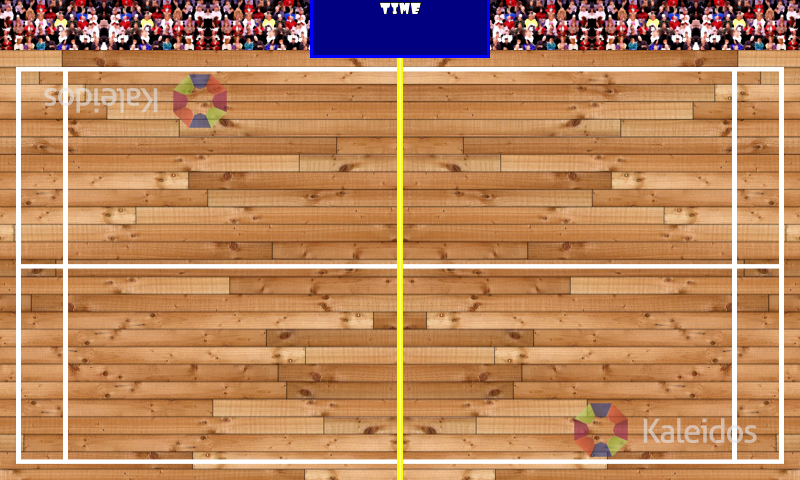
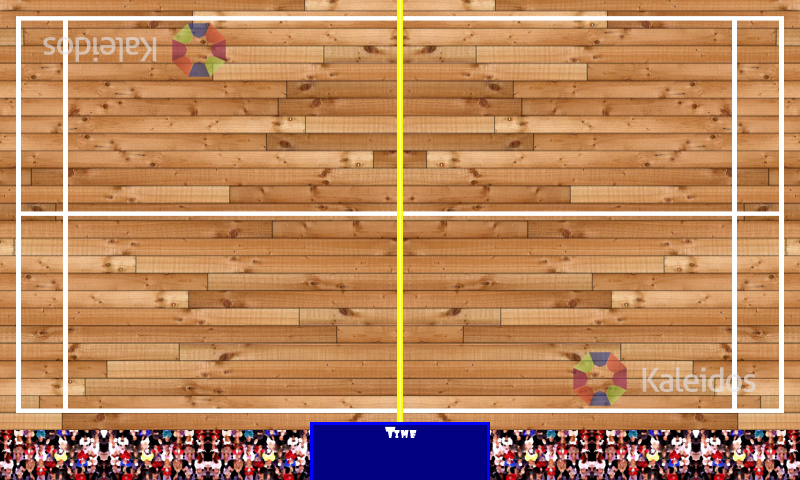
Extract game field settings to a GameField class

diff --git a/android/KaljammersProject/Kaljammers/src/main/java/net/kaleidos/kaljammers/GameOneActivity.java b/android/KaljammersProject/Kaljammers/src/main/java/net/kaleidos/kaljammers/GameOneActivity.java
@@ -67,7 +67,7 @@ public class GameOneActivity extends BaseGameActivity {
     private static final int LAYER_COUNT = 4;
 
 
-    private static final int FIELD_LIMIT_UP = 50;
+
 
 
     private static final int MOVE_NONE = 0;
@@ -115,6 +115,8 @@ public class GameOneActivity extends BaseGameActivity {
     Text score2Text;
 
     boolean atacking = true;
+
+    GameField gameField = new GameField();
 
     @Override
     public EngineOptions onCreateEngineOptions() {
@@ -174,7 +176,7 @@ public class GameOneActivity extends BaseGameActivity {
         BitmapTexture backgroundTexture = new BitmapTexture(this.getTextureManager(), new IInputStreamOpener() {
             @Override
             public InputStream open() throws IOException {
-                return getResources().openRawResource(R.drawable.stadium);
+                return getResources().openRawResource(gameField.getImageId());
             }
         });
 
@@ -259,16 +261,35 @@ public class GameOneActivity extends BaseGameActivity {
 
             if ((this.lastMove == MOVE_RIGHT)||(this.lastMove == MOVE_UP_RIGHT)||(this.lastMove == MOVE_DOWN_RIGHT)) {
                 x += this.player1.getVel() * pSecondsElapsed;
+
+
             } else if ((this.lastMove == MOVE_LEFT)||(this.lastMove == MOVE_UP_LEFT)||(this.lastMove == MOVE_DOWN_LEFT)) {
                 x -= this.player1.getVel() * pSecondsElapsed;
+
             }
 
 
             if ((this.lastMove == MOVE_UP)||(this.lastMove == MOVE_UP_RIGHT)||(this.lastMove == MOVE_UP_LEFT)) {
                 y -= this.player1.getVel() * pSecondsElapsed;
+
             } else if ((this.lastMove == MOVE_DOWN)||(this.lastMove == MOVE_DOWN_LEFT)||(this.lastMove == MOVE_DOWN_RIGHT)) {
                 y += this.player1.getVel() * pSecondsElapsed;
+
             }
+
+            //Check limits player 1
+            if (x+player1.getWidth()>gameField.getLimitMiddle()){
+                x = gameField.getLimitMiddle()-player1.getWidth();
+            } else if (x<gameField.getLimitLeft()){
+                x = gameField.getLimitLeft();
+            }
+
+            if (y<gameField.getLimitUp()){
+                y = gameField.getLimitUp();
+            } else if (y+player1.getHeight()>gameField.getLimitDown()){
+                y = gameField.getLimitDown()-player1.getHeight();
+            }
+
 
             this.player1.setPosition(x, y);
         }
@@ -304,6 +325,20 @@ public class GameOneActivity extends BaseGameActivity {
                 if (fy-p2y>this.player2.getHeight()/2){
                     y += this.player2.getVel() * pSecondsElapsed;
                 }
+            }
+
+
+            //Check limits
+            if (x<gameField.getLimitMiddle()){
+                x = gameField.getLimitMiddle();
+            } else if (x+player2.getWidth()>gameField.getLimitRight()){
+                x = gameField.getLimitRight() - player2.getWidth();
+            }
+
+            if (y<gameField.getLimitUp()){
+                y = gameField.getLimitUp();
+            } else if (y+player2.getHeight()>gameField.getLimitDown()){
+                y = gameField.getLimitDown()-player2.getHeight();
             }
 
             this.player2.setPosition(x, y);
@@ -400,7 +435,7 @@ public class GameOneActivity extends BaseGameActivity {
         final float centerX = (GameOneActivity.CAMERA_WIDTH - this.mFaceTextureRegion.getWidth()) / 2;
         final float centerY = (GameOneActivity.CAMERA_HEIGHT - this.mFaceTextureRegion.getHeight()) / 2;
 
-        frisbee = new Frisbee(centerX, centerY, this.mFaceTextureRegion, this.getVertexBufferObjectManager());
+        frisbee = new Frisbee(centerX, centerY, this.mFaceTextureRegion, this.getVertexBufferObjectManager(), gameField);
         scene.getChildByIndex(LAYER_FRISBEE).attachChild(frisbee);
         frisbee.setVisible(false);
 
@@ -417,10 +452,10 @@ public class GameOneActivity extends BaseGameActivity {
         scene.getChildByIndex(LAYER_TEXT).attachChild(debugText);
 
 
-        score1Text = new Text(325, 5, this.mFont, "00", new TextOptions(HorizontalAlign.CENTER), this.getVertexBufferObjectManager());
+        score1Text = new Text(325, 430, this.mFont, "00", new TextOptions(HorizontalAlign.CENTER), this.getVertexBufferObjectManager());
         scene.getChildByIndex(LAYER_TEXT).attachChild(score1Text);
 
-        score2Text = new Text(430, 5, this.mFont, "00", new TextOptions(HorizontalAlign.CENTER), this.getVertexBufferObjectManager());
+        score2Text = new Text(430, 430, this.mFont, "00", new TextOptions(HorizontalAlign.CENTER), this.getVertexBufferObjectManager());
         scene.getChildByIndex(LAYER_TEXT).attachChild(score2Text);
 
         initOnScreenControls();
@@ -431,7 +466,8 @@ public class GameOneActivity extends BaseGameActivity {
 
 
     private void initOnScreenControls() {
-        final DigitalOnScreenControl digitalOnScreenControl = new DigitalOnScreenControl(0, CAMERA_HEIGHT - this.mOnScreenControlBaseTextureRegion.getHeight(), this.camera, this.mOnScreenControlBaseTextureRegion, this.mOnScreenControlKnobTextureRegion, 0.1f, this.getVertexBufferObjectManager(), new DigitalOnScreenControl.IOnScreenControlListener() {
+        final DigitalOnScreenControl digitalOnScreenControl = new DigitalOnScreenControl(20, CAMERA_HEIGHT - this.mOnScreenControlBaseTextureRegion.getHeight()-10, this.camera,
+                this.mOnScreenControlBaseTextureRegion, this.mOnScreenControlKnobTextureRegion, 0.1f, this.getVertexBufferObjectManager(), new DigitalOnScreenControl.IOnScreenControlListener() {
             @Override
             public void onControlChange(final BaseOnScreenControl pBaseOnScreenControl, final float pValueX, final float pValueY) {
 
@@ -468,7 +504,7 @@ public class GameOneActivity extends BaseGameActivity {
 
 
         /* Create the button and add it to the scene. */
-        final Sprite button1 = new ButtonSprite(CAMERA_WIDTH - 100, CAMERA_HEIGHT - this.mOnScreenButton1TextureRegion.getHeight()-20,
+        final Sprite button1 = new ButtonSprite(CAMERA_WIDTH - 100, CAMERA_HEIGHT - this.mOnScreenButton1TextureRegion.getHeight()-30,
                 this.mOnScreenButton1TextureRegion, this.mOnScreenButton1TextureRegion, this.mOnScreenButton1TextureRegion, this.getVertexBufferObjectManager(),
                 new ButtonSprite.OnClickListener() {
 
@@ -523,29 +559,31 @@ public class GameOneActivity extends BaseGameActivity {
 
     private static class Frisbee extends Sprite {
         private final PhysicsHandler mPhysicsHandler;
+        GameField gameField;
 
-        public Frisbee(final float pX, final float pY, final ITextureRegion pTextureRegion, final VertexBufferObjectManager pVertexBufferObjectManager) {
+        public Frisbee(final float pX, final float pY, final ITextureRegion pTextureRegion, final VertexBufferObjectManager pVertexBufferObjectManager, GameField gameField) {
             super(pX, pY, pTextureRegion, pVertexBufferObjectManager);
             this.mPhysicsHandler = new PhysicsHandler(this);
             this.registerUpdateHandler(this.mPhysicsHandler);
+            this.gameField = gameField;
         }
 
         @Override
         protected void onManagedUpdate(final float pSecondsElapsed) {
-            if(this.mX < 0) {
-                this.mX = 0;
+            if(this.mX < gameField.getLimitLeft()) {
+                this.mX = gameField.getLimitLeft();
                 this.mPhysicsHandler.setVelocity(0,0);
 
-            } else if(this.mX + this.getWidth() > GameOneActivity.CAMERA_WIDTH) {
-                this.mX = GameOneActivity.CAMERA_WIDTH - this.getWidth();
+            } else if(this.mX + this.getWidth() > gameField.getLimitRight()) {
+                this.mX = gameField.getLimitRight() - this.getWidth();
                 this.mPhysicsHandler.setVelocity(0, 0);
             }
 
-            if(this.mY < FIELD_LIMIT_UP) {
-                this.mY = FIELD_LIMIT_UP;
+            if(this.mY < gameField.getLimitUp()) {
+                this.mY = gameField.getLimitUp();
                 this.mPhysicsHandler.setVelocityY(-this.mPhysicsHandler.getVelocityY());
-            } else if(this.mY + this.getHeight() > GameOneActivity.CAMERA_HEIGHT) {
-                this.mY = GameOneActivity.CAMERA_HEIGHT - this.getHeight();
+            } else if(this.mY + this.getHeight() > gameField.getLimitDown()) {
+                this.mY = gameField.getLimitDown() - this.getHeight();
                 this.mPhysicsHandler.setVelocityY(-this.mPhysicsHandler.getVelocityY());
             }
             super.onManagedUpdate(pSecondsElapsed);

diff --git a/android/KaljammersProject/Kaljammers/src/main/java/net/kaleidos/kaljammers/GameField.java b/android/KaljammersProject/Kaljammers/src/main/java/net/kaleidos/kaljammers/GameField.java
@@ -1,0 +1,84 @@
+package net.kaleidos.kaljammers;
+
+/**
+ * Created by palba on 17/07/13.
+ */
+public class GameField {
+
+    private int limitDown = 430;
+    private int limitUp = 0;
+    private int limitLeft = 0;
+    private int limitRight = 800;
+    private int limitMiddle = 400;
+    private int imageId = R.drawable.stadium;
+
+    public GameField(){}
+
+    public GameField(int limitDown, int limitUp, int limitLeft, int limitRight, int limitMiddle, int imageId) {
+        this.limitDown = limitDown;
+        this.limitUp = limitUp;
+        this.limitLeft = limitLeft;
+        this.limitRight = limitRight;
+        this.limitMiddle = limitMiddle;
+        this.imageId = imageId;
+    }
+
+
+
+    public int getLimitDown() {
+        return limitDown;
+    }
+
+    public void setLimitDown(int limitDown) {
+        this.limitDown = limitDown;
+    }
+
+    public int getLimitUp() {
+        return limitUp;
+    }
+
+    public void setLimitUp(int limitUp) {
+        this.limitUp = limitUp;
+    }
+
+    public int getLimitLeft() {
+        return limitLeft;
+    }
+
+    public void setLimitLeft(int limitLeft) {
+        this.limitLeft = limitLeft;
+    }
+
+    public int getLimitRight() {
+        return limitRight;
+    }
+
+    public void setLimitRight(int limitRight) {
+        this.limitRight = limitRight;
+    }
+
+    public int getLimitMiddle() {
+        return limitMiddle;
+    }
+
+    public void setLimitMiddle(int limitMiddle) {
+        this.limitMiddle = limitMiddle;
+    }
+
+    public int getImageId() {
+        return imageId;
+    }
+
+    public void setImageId(int imageId) {
+        this.imageId = imageId;
+    }
+
+
+
+
+
+
+
+
+
+}

diff --git a/android/KaljammersProject/Kaljammers/src/main/java/net/kaleidos/kaljammers/Player.java b/android/KaljammersProject/Kaljammers/src/main/java/net/kaleidos/kaljammers/Player.java
@@ -1,19 +1,10 @@
 package net.kaleidos.kaljammers;
 
-import android.util.Log;
-
 import org.andengine.entity.sprite.Sprite;
 import org.andengine.opengl.texture.region.ITextureRegion;
 import org.andengine.opengl.vbo.VertexBufferObjectManager;
 
 public class Player extends Sprite {
-
-    private static final int FIELD_LIMIT_UP = 50;
-    private static final int FIELD_LIMIT_DOWN = 480;
-    private static final int FIELD_LIMIT_RIGHT = 395;
-    private static final int FIELD_LIMIT_LEFT = 0;
-
-    private static final int CAMERA_RIGHT = 800;
 
     public boolean isPlayer1() {
         return isPlayer1;
@@ -47,30 +38,5 @@ public class Player extends Sprite {
 
     }
 
-    @Override
-    protected void onManagedUpdate(final float pSecondsElapsed) {
-        Log.v("[PLAYER position]","------------------>  (x,y):("+this.mX+","+this.mY+")");
-        if (isPlayer1) {
-            if(this.mX < FIELD_LIMIT_LEFT) {
-                this.mX = FIELD_LIMIT_LEFT;
-            } else if(this.mX + this.getWidth() > FIELD_LIMIT_RIGHT) {
-                this.mX = FIELD_LIMIT_RIGHT - this.getWidth();
-            }
-        } else {
-            if(this.mX < FIELD_LIMIT_RIGHT) {
-                this.mX = FIELD_LIMIT_RIGHT;
-            } else if(this.mX + this.getWidth() > CAMERA_RIGHT) {
-                this.mX = CAMERA_RIGHT - this.getWidth();
-            }
-        }
-
-        if(this.mY < FIELD_LIMIT_UP) {
-            this.mY = FIELD_LIMIT_UP;
-        } else if(this.mY + this.getHeight() > FIELD_LIMIT_DOWN) {
-            this.mY = FIELD_LIMIT_DOWN - this.getHeight();
-        }
-
-        super.onManagedUpdate(pSecondsElapsed);
-    }
 }
 
